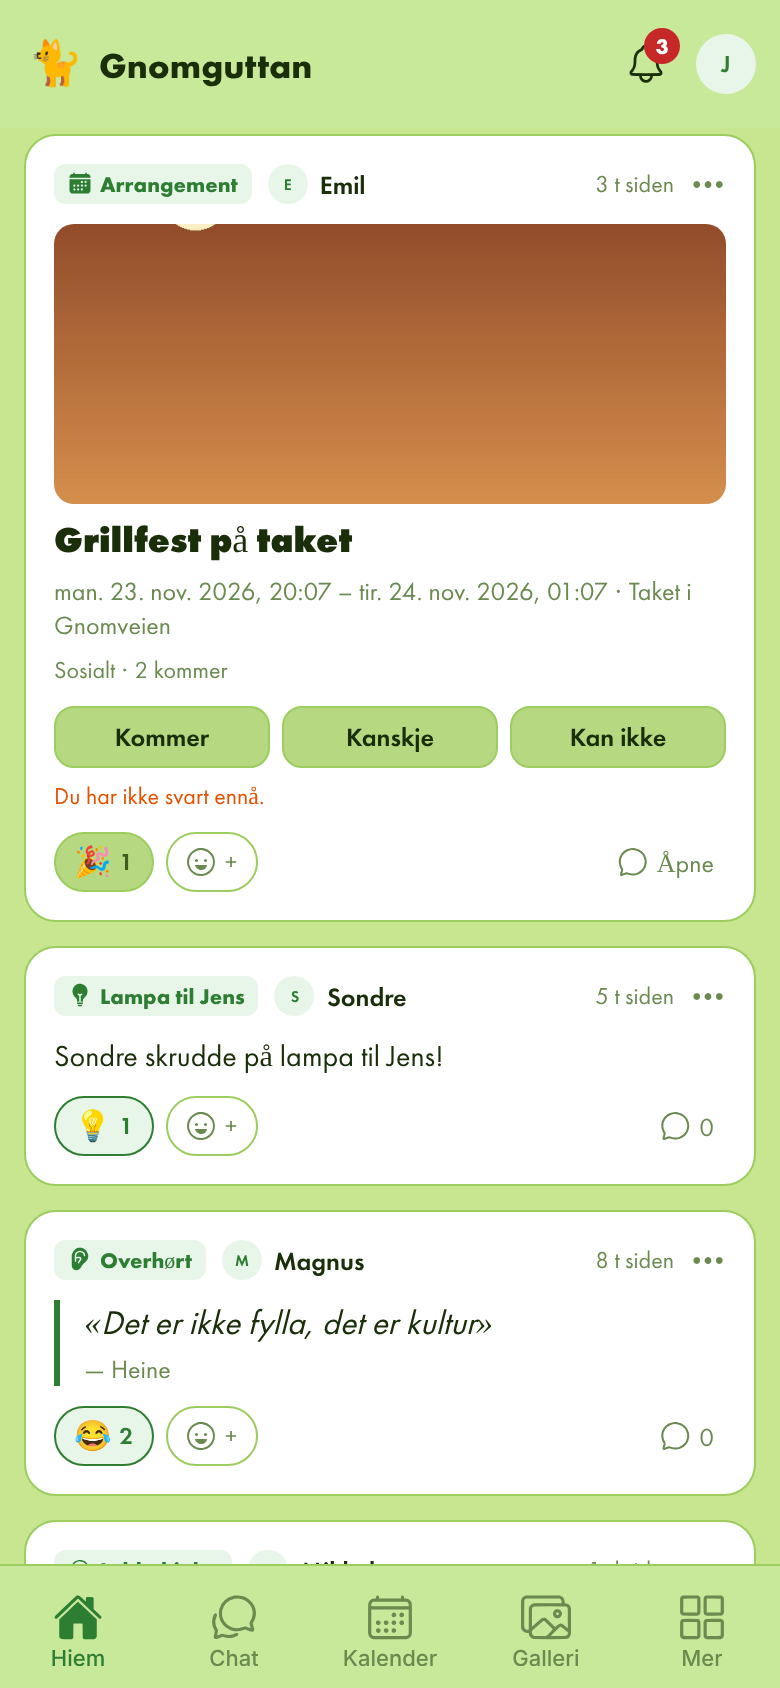
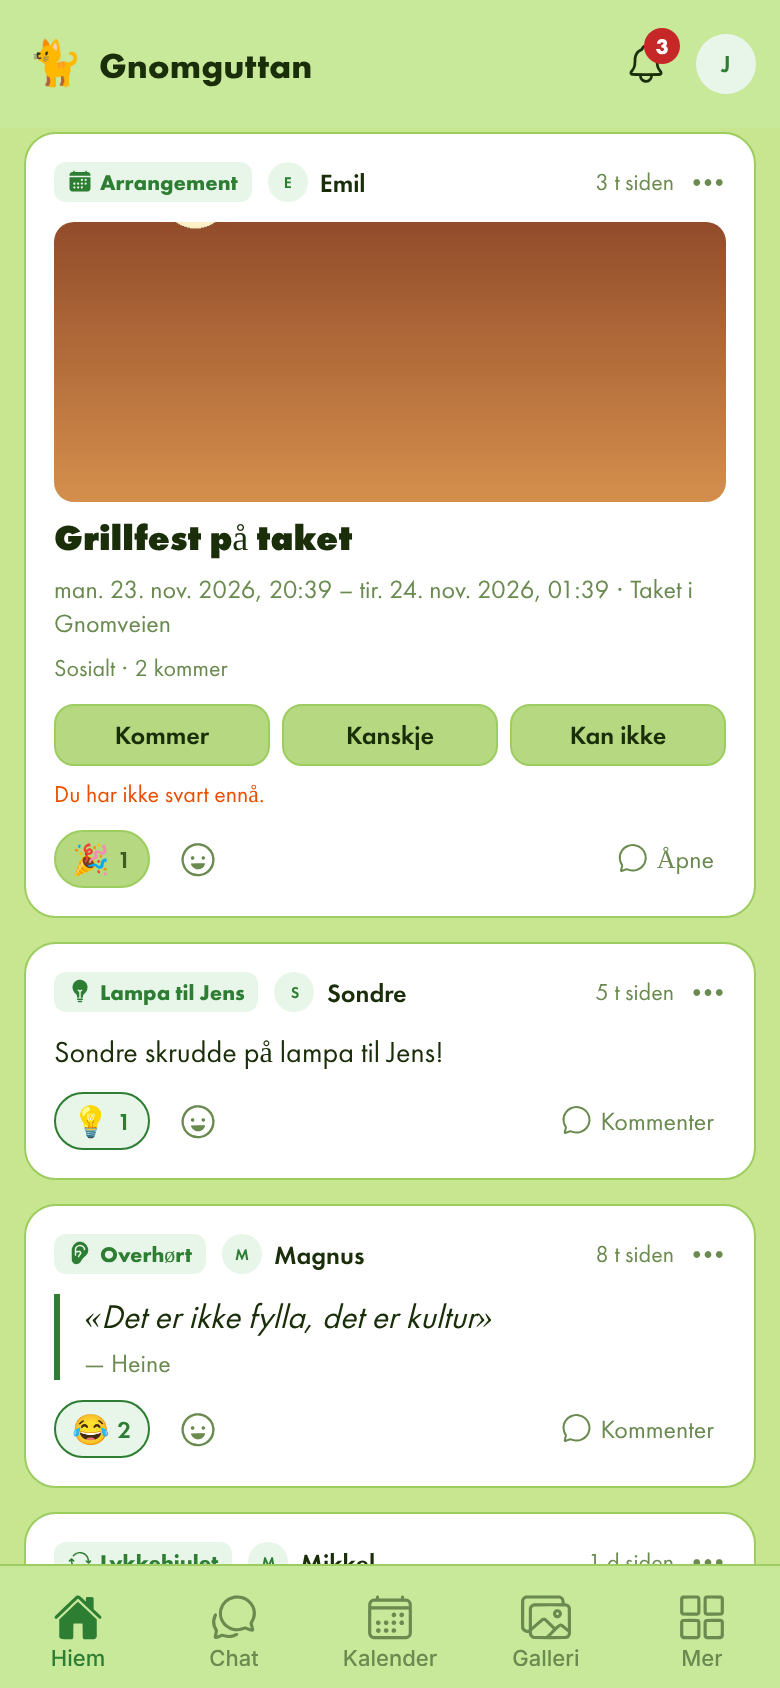
GnomChat: UI polish
- Event header: a gradient over the picture instead of a dark box with a strip above it
- Notifications: unread ones get an accent bar, so the avatar stays visible
- Lighter reaction chips; «Kommenter» instead of «0» on posts without comments
- Short dates in «Kommer snart», hints in the login fields, white switch thumbs

Claude-Session: https://claude.ai/code/session_015E8NqA6NTjVae8Nho3EFMw

diff --git a/gnomchat/src/screens/HomeScreen.tsx b/gnomchat/src/screens/HomeScreen.tsx
@@ -14,9 +14,21 @@ import { FeedCard } from '@/components/feed/FeedCard';
 import { ObligationBanner } from '@/components/ObligationBanner';
 import { Button, Card, Chip, Empty, ErrorBox, IconButton, Loading, T } from '@/components/ui';
 import { Sheet } from '@/components/Sheet';
-import { getEventDate, getEventTimeLabel } from '@/utils/communityEvents';
+import { getEventDate } from '@/utils/communityEvents';
 import { errorText } from '@/services/appApi';
 import type { OverheardQuote } from '@/types';
+
+/** «lør. 23. nov · 20:07», or «Tid foreslås» when the time isn't settled yet. */
+function shortWhen(event: Parameters<typeof getEventDate>[0]) {
+  if (event.timeMode === 'proposed') return 'Tid foreslås';
+  const date = getEventDate(event);
+  const today = new Date();
+  const tomorrow = new Date(today.getTime() + 86400_000);
+  const time = date.toLocaleTimeString('nb-NO', { hour: '2-digit', minute: '2-digit' });
+  if (date.toDateString() === today.toDateString()) return `I dag · ${time}`;
+  if (date.toDateString() === tomorrow.toDateString()) return `I morgen · ${time}`;
+  return `${date.toLocaleDateString('nb-NO', { weekday: 'short', day: 'numeric', month: 'short' })} · ${time}`;
+}
 
 function UpcomingEvents() {
   const { tokens, radius } = useTheme();
@@ -34,7 +46,7 @@ function UpcomingEvents() {
         {upcoming.map((event) => (
           <Pressable key={event.id} onPress={() => navigation.navigate('EventDetail', { eventId: event.id, title: event.title })} style={[styles.eventChip, { backgroundColor: tokens.bgCard, borderColor: tokens.border, borderRadius: radius.md }]}>
             <T weight={700} numberOfLines={1}>{event.title}</T>
-            <T size={12} muted numberOfLines={1}>{getEventTimeLabel(event)}</T>
+            <T size={12} muted numberOfLines={1}>{shortWhen(event)}</T>
           </Pressable>
         ))}
       </ScrollView>
@@ -125,6 +137,6 @@ export function HomeScreen() {
 
 const styles = StyleSheet.create({
   feedHead: { flexDirection: 'row', alignItems: 'center', gap: 8 },
-  eventChip: { padding: 10, width: 170, borderWidth: StyleSheet.hairlineWidth, gap: 2 },
+  eventChip: { padding: 10, width: 160, borderWidth: StyleSheet.hairlineWidth, gap: 2 },
   chips: { flexDirection: 'row', flexWrap: 'wrap', gap: 8 },
 });

diff --git a/gnomchat/src/screens/EventDetailScreen.tsx b/gnomchat/src/screens/EventDetailScreen.tsx
@@ -11,6 +11,7 @@ import {
   View,
 } from 'react-native';
 import { Image } from 'expo-image';
+import { LinearGradient } from 'expo-linear-gradient';
 import { Ionicons } from '@expo/vector-icons';
 import { useFocusEffect, useNavigation, useRoute, type RouteProp } from '@react-navigation/native';
 import type { NativeStackNavigationProp } from '@react-navigation/native-stack';
@@ -328,7 +329,8 @@ export function EventDetailScreen() {
       <ScrollView contentContainerStyle={styles.content} keyboardShouldPersistTaps="handled">
         <View style={[styles.hero, { backgroundColor: tokens.bgCard, borderRadius: radius.lg }]}>
           {event.imageUrl ? <Image source={{ uri: event.imageUrl }} style={styles.heroImage} contentFit="cover" /> : null}
-          <View style={[styles.heroBody, { backgroundColor: event.imageUrl ? 'rgba(0,0,0,0.58)' : tokens.bgCard }]}>
+          {event.imageUrl ? <LinearGradient colors={['rgba(0,0,0,0)', 'rgba(0,0,0,0.25)', 'rgba(0,0,0,0.78)']} locations={[0, 0.35, 1]} style={styles.heroImage} /> : null}
+          <View style={[styles.heroBody, { backgroundColor: event.imageUrl ? 'transparent' : tokens.bgCard }]}>
             <View style={styles.heroBadgeRow}>
               <Text style={[styles.typeBadge, { color: event.imageUrl ? '#fff' : tokens.accent, borderColor: event.imageUrl ? '#fff' : tokens.accent, fontFamily: font(600) }]}>{getEventTypeLabel(event)}</Text>
               {event.status === 'draft' ? <Text style={[styles.typeBadge, { color: tokens.warning, borderColor: tokens.warning, fontFamily: font(600) }]}>Kladd</Text> : null}
@@ -487,7 +489,7 @@ const styles = StyleSheet.create({
   flex: { flex: 1 },
   center: { flex: 1, alignItems: 'center', justifyContent: 'center', gap: 12, padding: 24 },
   content: { padding: 12, paddingBottom: 34, gap: 12 },
-  hero: { minHeight: 220, overflow: 'hidden', justifyContent: 'flex-end' },
+  hero: { minHeight: 260, overflow: 'hidden', justifyContent: 'flex-end' },
   heroImage: { ...StyleSheet.absoluteFillObject },
   heroBody: { padding: 16, gap: 6 },
   heroBadgeRow: { flexDirection: 'row', flexWrap: 'wrap', gap: 7 },

diff --git a/gnomchat/src/screens/NotificationsScreen.tsx b/gnomchat/src/screens/NotificationsScreen.tsx
@@ -22,13 +22,13 @@ function Item({ notification }: { notification: AppNotification }) {
   const unread = notification.readAt === null;
   const first = notification.actors[0];
   return (
-    <Pressable onPress={() => openNotification(notification)} style={({ pressed }) => [styles.item, { backgroundColor: unread ? tokens.accentMuted : tokens.bgCard, borderRadius: radius.md, opacity: pressed ? 0.8 : 1 }]}>
+    <Pressable onPress={() => openNotification(notification)} style={({ pressed }) => [styles.item, { backgroundColor: tokens.bgCard, borderRadius: radius.md, borderLeftWidth: 4, borderLeftColor: unread ? tokens.accent : 'transparent', opacity: pressed ? 0.8 : unread ? 1 : 0.85 }]}>
       <View>
         {first ? <Avatar uid={first.uid} name={first.name} avatarUpdatedAt={first.avatarUpdatedAt} size={38} /> : null}
-        <View style={[styles.icon, { backgroundColor: tokens.bgCard }]}><T size={12}>{icon}</T></View>
+        <View style={[styles.icon, { backgroundColor: tokens.bgCard, borderColor: tokens.border }]}><T size={12}>{icon}</T></View>
       </View>
       <View style={{ flex: 1, gap: 2 }}>
-        <T size={14}><T size={14} weight={700}>{actors}</T> {action}</T>
+        <T size={14} weight={unread ? 500 : 400}><T size={14} weight={700}>{actors}</T> {action}</T>
         {notification.snippet ? <T size={13} muted numberOfLines={2}>«{notification.snippet}»</T> : null}
         <T size={11} muted>{formatRelativeTime(notification.updatedAt)}</T>
       </View>
@@ -86,6 +86,6 @@ export function NotificationsScreen({ navigation }: Props) {
 
 const styles = StyleSheet.create({
   item: { flexDirection: 'row', alignItems: 'center', gap: 10, padding: 10 },
-  icon: { position: 'absolute', right: -4, bottom: -4, width: 20, height: 20, borderRadius: 10, alignItems: 'center', justifyContent: 'center' },
+  icon: { position: 'absolute', right: -4, bottom: -4, width: 20, height: 20, borderRadius: 10, alignItems: 'center', justifyContent: 'center', borderWidth: StyleSheet.hairlineWidth },
   dot: { width: 8, height: 8, borderRadius: 4 },
 });

diff --git a/gnomchat/src/screens/LoginScreen.tsx b/gnomchat/src/screens/LoginScreen.tsx
@@ -67,8 +67,8 @@ export function LoginScreen() {
 
             {mode === 'login' ? (
               <>
-                <Field label="E-post" value={email} onChangeText={setEmail} autoCapitalize="none" autoCorrect={false} keyboardType="email-address" textContentType="emailAddress" autoComplete="email" editable={!busy} />
-                <Field label="Passord" value={password} onChangeText={setPassword} secureTextEntry textContentType="password" autoComplete="password" editable={!busy} onSubmitEditing={() => run(() => login(email, password))} returnKeyType="go" />
+                <Field label="E-post" placeholder="deg@eksempel.no" value={email} onChangeText={setEmail} autoCapitalize="none" autoCorrect={false} keyboardType="email-address" textContentType="emailAddress" autoComplete="email" editable={!busy} />
+                <Field label="Passord" placeholder="••••••••" value={password} onChangeText={setPassword} secureTextEntry textContentType="password" autoComplete="password" editable={!busy} onSubmitEditing={() => run(() => login(email, password))} returnKeyType="go" />
                 <ErrorBox message={error} />
                 <Button title="Logg inn" busy={busy} disabled={!email.trim() || !password} onPress={() => run(() => login(email, password))} />
                 <View style={styles.links}>

diff --git a/gnomchat/src/components/feed/ReactionBar.tsx b/gnomchat/src/components/feed/ReactionBar.tsx
@@ -22,9 +22,8 @@ export function ReactionBar({ groups, onToggle, onAdd, compact }: { groups: Reac
         </Pressable>
       ))}
       {onAdd ? (
-        <Pressable accessibilityLabel="Legg til reaksjon" onPress={onAdd} style={[styles.chip, compact && styles.chipCompact, { borderColor: tokens.border }]}>
-          <Ionicons name="happy-outline" size={compact ? 14 : 16} color={tokens.textMuted} />
-          <T size={12} muted>+</T>
+        <Pressable accessibilityLabel="Legg til reaksjon" hitSlop={6} onPress={onAdd} style={[styles.chip, compact && styles.chipCompact, { borderColor: 'transparent' }]}>
+          <Ionicons name="happy-outline" size={compact ? 16 : 19} color={tokens.textMuted} />
         </Pressable>
       ) : null}
     </View>
@@ -51,6 +50,6 @@ export function groupCommentReactions(reactions: Record<string, number[]> = {}, 
 
 const styles = StyleSheet.create({
   bar: { flexDirection: 'row', flexWrap: 'wrap', gap: 6 },
-  chip: { flexDirection: 'row', alignItems: 'center', gap: 4, paddingHorizontal: 9, paddingVertical: 4, borderRadius: 999, borderWidth: 1 },
+  chip: { flexDirection: 'row', alignItems: 'center', gap: 4, paddingHorizontal: 8, paddingVertical: 3, borderRadius: 999, borderWidth: StyleSheet.hairlineWidth },
   chipCompact: { paddingHorizontal: 7, paddingVertical: 2 },
 });

diff --git a/gnomchat/src/components/ui.tsx b/gnomchat/src/components/ui.tsx
@@ -138,7 +138,7 @@ export function Row({ icon, title, subtitle, onPress, right, danger, chevron = B
 export function ToggleRow({ title, subtitle, value, onChange, disabled }: { title: string; subtitle?: string; value: boolean; onChange: (value: boolean) => void; disabled?: boolean }) {
   const { tokens } = useTheme();
   return (
-    <Row title={title} subtitle={subtitle} chevron={false} right={<Switch value={value} disabled={disabled} onValueChange={onChange} trackColor={{ true: tokens.accent, false: tokens.border }} thumbColor="#fff" />} />
+    <Row title={title} subtitle={subtitle} chevron={false} right={<Switch value={value} disabled={disabled} onValueChange={onChange} trackColor={{ true: tokens.accent, false: tokens.border }} thumbColor="#fff" {...({ activeThumbColor: '#fff' } as object)} />} />
   );
 }
 

diff --git a/gnomchat/src/components/feed/FeedCard.tsx b/gnomchat/src/components/feed/FeedCard.tsx
@@ -201,7 +201,7 @@ export function FeedCard({ item, standalone }: { item: AnyFeedItem; standalone?:
         {!standalone ? (
           <Pressable onPress={open} style={styles.comments} accessibilityLabel="Kommentarer">
             <Ionicons name="chatbubble-outline" size={16} color={tokens.textMuted} />
-            <T size={13} muted>{isEvent ? 'Åpne' : commentCount}</T>
+            <T size={13} muted>{isEvent ? 'Åpne' : commentCount ? commentCount : 'Kommenter'}</T>
           </Pressable>
         ) : null}
       </View>
